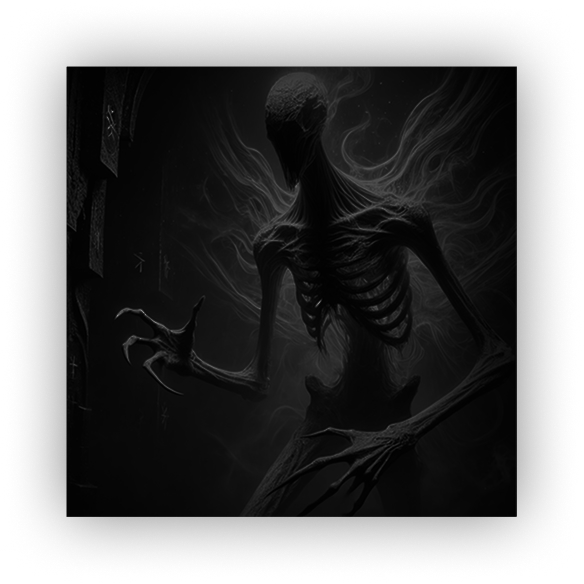
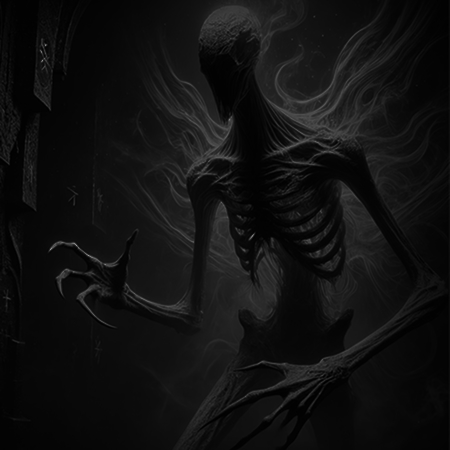
fixed cards and header

diff --git a/src/app/main/main.component.scss b/src/app/main/main.component.scss
@@ -197,7 +197,7 @@ body {
         overflow: hidden;
         background-position: center, center, center;
         background-repeat: no-repeat, no-repeat, no-repeat;
-        background-size: cover !important;
+        // background-size: cover !important;
         transition: filter 0.5s ease, transform 0.5s ease, box-shadow 0.5s ease, border 0.5s ease;
 
         display: flex;

diff --git a/src/app/header/header.component.scss b/src/app/header/header.component.scss
@@ -353,6 +353,7 @@ header {
         flex-basis: 220px;
         img {
           transform: none;
+          min-width: 0 !important;
         }
       }
     }
